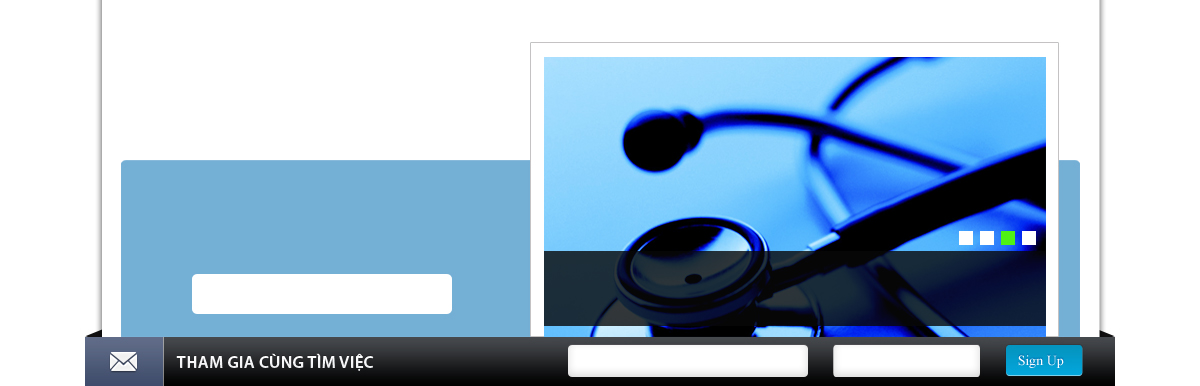
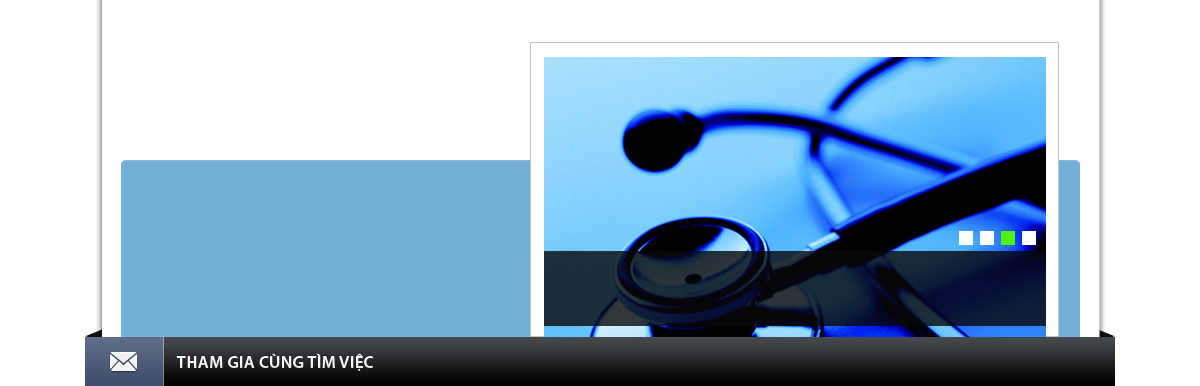
button dang nhap, dang ki

Changed region(s): [[0.4625, 0.8705, 0.925, 0.9948], [0.1542, 0.6839, 0.4008, 0.8394]]

diff --git a/source_working/WebPage_F4/WebPage_F4/CSS/styleSheet.css b/source_working/WebPage_F4/WebPage_F4/CSS/styleSheet.css
@@ -138,12 +138,58 @@ div#menu{
 	color:#454142;
 }
 
+#banner #dangnhapButton
+{
+	float :left;
+	top: -4px;
+	left: 16px;
+	width: 104px;
+}
+#dangnhapButton a:link, #dangnhapButton a:visited
+{
+	width:104px;
+	height:31px;
+	display:block;
+	text-indent:-10em;
+	background:#FFF url(../images/buttonDangNhap.jpg);
+	border:none;
+}
+
+
+#dangnhapButton a:hover, #dangnhapButton a:active
+{
+	background:#FFF url(../images/overButtonDangNhap.jpg);
+}
+
+#banner #dangkiButton
+{
+	float:right;
+	top: 0px;
+	left: 297px;
+	width: 104px;
+}
+
+#dangkiButton a:link, #dangkiButton a:visited
+{
+	width:104px;
+	height:31px;
+	display:block;
+	text-indent:-10em;
+	background:#FFF url(../images/buttonDangKi.jpg);
+	border:none;
+}
+
+#dangkiButton a:hover, #dangkiButton a:active
+{
+	background:#FFF url(../images/overButtonDangNhap.jpg);
+}
+
 #banner #textboxLogin{
 	position: absolute;
-	bottom:0;
-	right: 110px;
-	width:521px;
-	height: 50px;
+	bottom:8px;
+	right: 164px;
+	width:308px;
+	height: 33px;
 }
 
 .inputBox{

diff --git a/source_working/WebPage_F4/WebPage_F4/UserControl/uc_FormDangKi.ascx.designer.cs b/source_working/WebPage_F4/WebPage_F4/UserControl/uc_FormDangKi.ascx.designer.cs
@@ -1,0 +1,18 @@
+//------------------------------------------------------------------------------
+// <auto-generated>
+//     This code was generated by a tool.
+//     Runtime Version:2.0.50727.42
+//
+//     Changes to this file may cause incorrect behavior and will be lost if
+//     the code is regenerated.
+// </auto-generated>
+//------------------------------------------------------------------------------
+
+namespace WebPage_F4.UserControl
+{
+
+
+    public partial class uc_FormDangKi
+    {
+    }
+}

diff --git a/source_working/WebPage_F4/WebPage_F4/DangKi/DangKi.aspx.designer.cs b/source_working/WebPage_F4/WebPage_F4/DangKi/DangKi.aspx.designer.cs
@@ -1,0 +1,16 @@
+//------------------------------------------------------------------------------
+// <auto-generated>
+//     This code was generated by a tool.
+//     Runtime Version:2.0.50727.4927
+//
+//     Changes to this file may cause incorrect behavior and will be lost if
+//     the code is regenerated.
+// </auto-generated>
+//------------------------------------------------------------------------------
+
+namespace WebPage_F4.DangKi {
+    
+    
+    public partial class DangKi {
+    }
+}

diff --git a/source_working/WebPage_F4/WebPage_F4/UserControl/uc_FormDangKi.ascx.cs b/source_working/WebPage_F4/WebPage_F4/UserControl/uc_FormDangKi.ascx.cs
@@ -1,0 +1,21 @@
+using System;
+using System.Collections;
+using System.Configuration;
+using System.Data;
+using System.Web;
+using System.Web.Security;
+using System.Web.UI;
+using System.Web.UI.HtmlControls;
+using System.Web.UI.WebControls;
+using System.Web.UI.WebControls.WebParts;
+
+namespace WebPage_F4.UserControl
+{
+    public partial class uc_FormDangKi : System.Web.UI.UserControl
+    {
+        protected void Page_Load(object sender, EventArgs e)
+        {
+
+        }
+    }
+}

diff --git a/source_working/WebPage_F4/WebPage_F4/DangKi/DangKi.aspx.cs b/source_working/WebPage_F4/WebPage_F4/DangKi/DangKi.aspx.cs
@@ -1,0 +1,21 @@
+using System;
+using System.Collections;
+using System.Configuration;
+using System.Data;
+using System.Web;
+using System.Web.Security;
+using System.Web.UI;
+using System.Web.UI.HtmlControls;
+using System.Web.UI.WebControls;
+using System.Web.UI.WebControls.WebParts;
+
+namespace WebPage_F4.DangKi
+{
+    public partial class DangKi : System.Web.UI.Page
+    {
+        protected void Page_Load(object sender, EventArgs e)
+        {
+
+        }
+    }
+}
